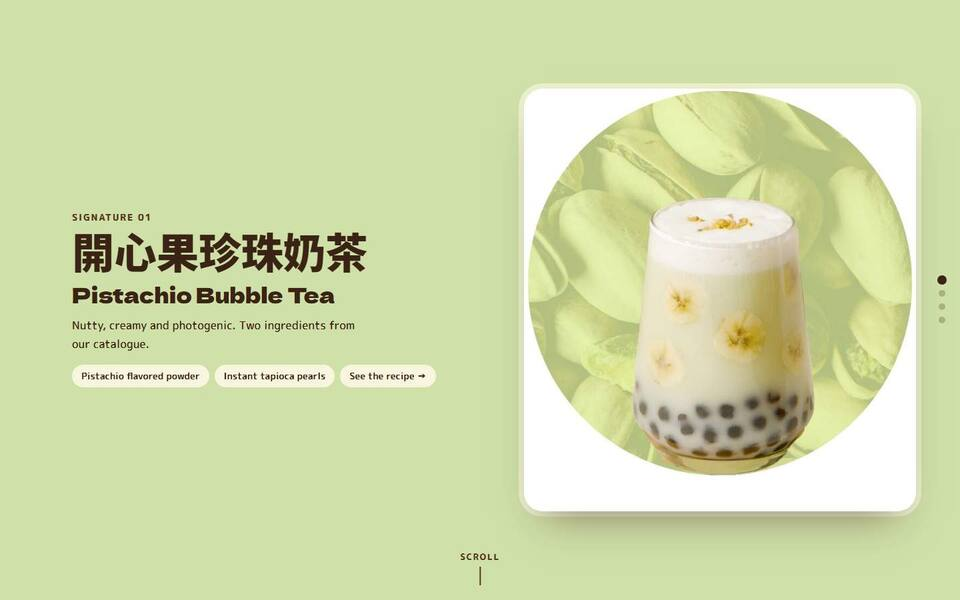
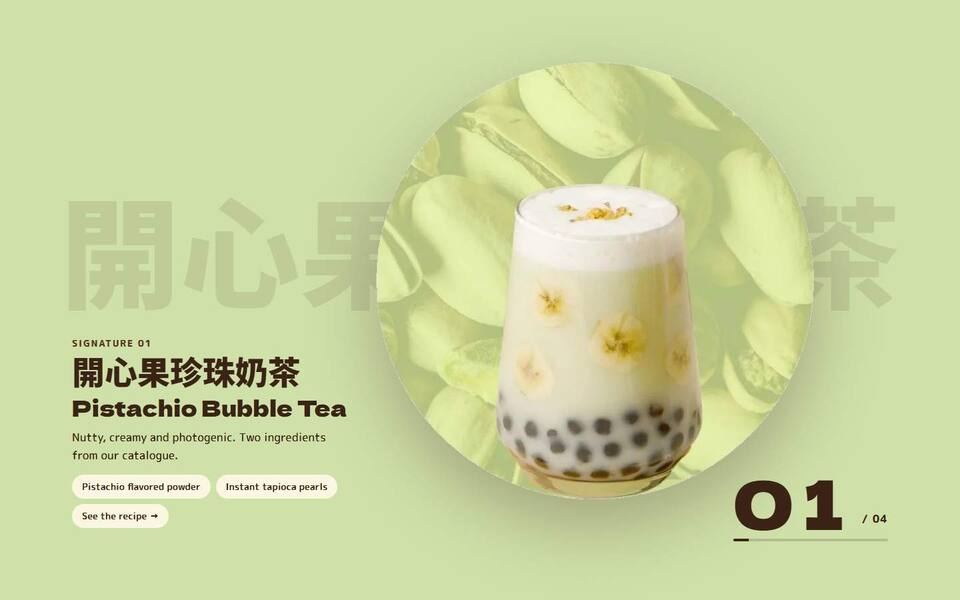
Proposal B motion: rework desktop flavor stage

diff --git a/b-menu-wall-motion.html b/b-menu-wall-motion.html
@@ -158,28 +158,35 @@ html.motion h1 .ln>span{transform:translateY(105%) rotate(7deg);transform-origin
 @keyframes tick{to{transform:translateX(-50%)}}
 
 /* pinned flavor story, like the live site's scrolling flavor slides */
-.flavors{position:relative;height:420vh;margin-top:0}
-.stage{position:sticky;top:0;height:100svh;overflow:hidden;display:grid;grid-template-columns:1fr 1fr;align-items:center;
-  background:var(--c,#cfe0a8);transition:background-color .9s cubic-bezier(.16,1,.3,1)}
-.stage .copy{padding:0 4vw 0 max(28px,calc((100vw - 1280px)/2 + 28px));position:relative;height:60vh}
-.stage .slide{position:absolute;inset:0 4vw 0 max(28px,calc((100vw - 1280px)/2 + 28px));display:flex;flex-direction:column;justify-content:center;gap:12px;
+.flavors{position:relative;height:440vh;margin-top:0}
+.stage{position:sticky;top:0;height:100svh;overflow:hidden;background:var(--c,#cfe0a8);transition:background-color .9s cubic-bezier(.16,1,.3,1)}
+.stage .big{position:absolute;left:0;right:0;top:42%;height:0;pointer-events:none}
+.stage .big span{position:absolute;left:50%;top:0;transform:translate(calc(-50% + var(--drift,0px)),-50%);white-space:nowrap;
+  font:900 min(12.5vw,24vh)/1 var(--tc);color:rgba(58,34,20,.1);opacity:0;transition:opacity .8s cubic-bezier(.16,1,.3,1)}
+.stage .big span.on{opacity:1}
+.stage .cup{position:absolute;left:62%;top:50%;width:min(50vw,84svh);height:min(50vw,84svh);transform:translate(-50%,-50%)}
+.stage .cup img{position:absolute;inset:0;width:100%;height:100%;object-fit:contain;
+  opacity:0;transform:translateY(60px) scale(.82) rotate(-8deg);transition:opacity .8s cubic-bezier(.16,1,.3,1),transform 1.1s cubic-bezier(.16,1,.3,1);
+  filter:drop-shadow(0 40px 50px rgba(58,34,20,.3))}
+.stage .cup img.on{opacity:1;transform:translateY(var(--float,0px)) rotate(var(--tilt,0deg))}
+.stage .copy{position:absolute;left:max(28px,calc((100vw - 1280px)/2 + 28px));bottom:12vh;width:min(420px,30vw);height:50vh}
+.stage .slide{position:absolute;inset:auto 0 0 0;display:flex;flex-direction:column;gap:10px;
   opacity:0;transform:translateY(40px);transition:opacity .7s cubic-bezier(.16,1,.3,1),transform .7s cubic-bezier(.16,1,.3,1);pointer-events:none}
-.stage .slide.on{opacity:1;transform:none;pointer-events:auto}
+.stage .slide.on{opacity:1;transform:none;pointer-events:auto;transition-delay:.12s}
 .stage .k{font:800 14px/1 var(--round);letter-spacing:.12em;text-transform:uppercase;color:var(--brown-2)}
-.stage .zh{font:900 clamp(36px,4.4vw,74px)/1.05 var(--tc);color:var(--brown);margin:0;white-space:nowrap}
-.stage h3{font:400 clamp(22px,2.2vw,32px)/1.1 var(--sign);color:var(--brown);margin:0}
-.stage p{margin:4px 0 0;max-width:40ch;color:#3e2615;font-size:17px}
+.stage .zh{font:900 clamp(34px,3.4vw,56px)/1.05 var(--tc);color:var(--brown);margin:0;white-space:nowrap}
+.stage h3{font:400 clamp(24px,2.3vw,36px)/1.08 var(--sign);color:var(--brown);margin:0}
+.stage p{margin:2px 0 0;color:#3e2615;font-size:17px}
 .stage .made{list-style:none;margin:6px 0 0;padding:0;display:flex;flex-wrap:wrap;gap:8px}
-.stage .made a{display:inline-block;font:700 14px/1 var(--round);text-decoration:none;background:rgba(255,248,232,.85);color:var(--brown);padding:10px 14px;border-radius:999px}
-.stage .made a:hover{background:var(--cream)}
-.stage .cup{position:relative;height:100%;display:grid;place-items:center}
-.stage .cup img{position:absolute;width:auto;height:min(78svh,44vw);max-width:44vw;aspect-ratio:720/775;object-fit:cover;background:#fff;border-radius:28px;box-shadow:0 34px 60px -30px rgba(58,34,20,.55),0 0 0 8px rgba(255,248,232,.6);
-  opacity:0;transform:scale(.86) rotate(-6deg);transition:opacity .8s cubic-bezier(.16,1,.3,1),transform 1.1s cubic-bezier(.16,1,.3,1)}
-.stage .cup img.on{opacity:1;transform:none}
-.stage .dots{position:absolute;right:22px;top:50%;transform:translateY(-50%);display:grid;gap:10px;list-style:none;margin:0;padding:0}
-.stage .dots li{width:10px;height:10px;border-radius:50%;background:rgba(58,34,20,.25);transition:background .4s,transform .4s}
-.stage .dots li.on{background:var(--brown);transform:scale(1.4)}
-.stage .hint{position:absolute;left:50%;bottom:22px;transform:translateX(-50%);font:800 13px/1 var(--round);letter-spacing:.12em;text-transform:uppercase;color:var(--brown-2);display:flex;flex-direction:column;align-items:center;gap:8px}
+.stage .made a{display:inline-block;font:700 14px/1 var(--round);text-decoration:none;background:rgba(255,248,232,.9);color:var(--brown);padding:11px 15px;border-radius:999px;transition:background .2s,transform .2s}
+.stage .made a:hover{background:var(--cream);transform:translateY(-2px)}
+.stage .count{position:absolute;right:max(28px,calc((100vw - 1280px)/2 + 28px));bottom:12vh;display:flex;align-items:flex-end;gap:12px;color:var(--brown)}
+.stage .count .n{font:400 clamp(64px,7vw,110px)/.8 var(--sign);font-variant-numeric:tabular-nums}
+.stage .count .of{font:800 16px/1 var(--round);letter-spacing:.08em;padding-bottom:6px}
+.stage .count .bar{position:absolute;left:0;right:0;bottom:-20px;height:4px;background:rgba(58,34,20,.18);border-radius:4px;overflow:hidden}
+.stage .count .bar i{position:absolute;inset:0;background:var(--brown);transform-origin:left;transform:scaleX(var(--prog,0))}
+.stage .dots{display:none}
+.stage .hint{position:absolute;left:50%;bottom:22px;transform:translateX(-50%);font:800 13px/1 var(--round);letter-spacing:.12em;text-transform:uppercase;color:var(--brown-2);display:flex;flex-direction:column;align-items:center;gap:8px;transition:opacity .4s}
 .stage .hint::after{content:"";width:2px;height:28px;background:var(--brown-2);transform-origin:top;animation:drip 1.8s cubic-bezier(.16,1,.3,1) infinite}
 @keyframes drip{0%{transform:scaleY(0)}60%{transform:scaleY(1)}100%{transform:scaleY(1);opacity:0}}
 
@@ -189,14 +196,18 @@ html.motion .menu.in li a .dots{transform:translateY(-4px) scaleX(1)}
 
 @media (max-width:860px){
   .flavors{height:380vh}
-  .stage{grid-template-columns:1fr;grid-template-rows:48svh 1fr;align-items:start}
-  .stage .cup{order:-1;height:48svh}
-  .stage .cup img{height:42svh;max-width:84vw}
+  .stage{display:grid;grid-template-rows:48svh 1fr}
+  .stage .big,.stage .count,.stage .hint{display:none}
+  .stage .cup{order:-1;position:relative;left:auto;top:auto;transform:none;width:auto;height:48svh;display:grid;place-items:center}
+  .stage .cup img{inset:auto;width:auto;height:42svh;max-width:84vw;aspect-ratio:720/775;object-fit:cover;background:#fff;border-radius:28px;filter:none;
+    box-shadow:0 34px 60px -30px rgba(58,34,20,.55),0 0 0 8px rgba(255,248,232,.6)}
+  .stage .cup img.on{transform:none}
+  .stage .copy{position:relative;left:auto;bottom:auto;width:auto;height:auto;min-height:44svh;margin:0 20px}
+  .stage .slide{inset:0 0 auto 0;padding-top:8px}
   .stage .zh{white-space:normal;font-size:clamp(30px,8.4vw,40px)}
-  .stage .copy{height:auto;min-height:44svh;padding:0 20px}
-  .stage .slide{inset:0 20px;justify-content:flex-start;padding-top:8px}
-  .stage .dots{right:12px;top:24svh}
-  .stage .hint{display:none}
+  .stage .dots{display:grid;position:absolute;right:12px;top:24svh;gap:10px;list-style:none;margin:0;padding:0}
+  .stage .dots li{width:10px;height:10px;border-radius:50%;background:rgba(58,34,20,.25);transition:background .4s,transform .4s}
+  .stage .dots li.on{background:var(--brown);transform:scale(1.4)}
 }
 @media (prefers-reduced-motion:reduce){
   .ticker .track{animation:none}
@@ -302,7 +313,7 @@ html.motion .menu.in li a .dots{transform:translateY(-4px) scaleX(1)}
   </div>
 
   <div class="ticker" aria-hidden="true"><div class="track"><ul><li class="zh" lang="zh-Hant">開心果珍珠奶茶</li><li>Powders</li><li class="zh" lang="zh-Hant">寶石芒果綠茶</li><li>Syrups</li><li class="zh" lang="zh-Hant">櫻花抹茶鮮奶</li><li>Toppings</li><li class="zh" lang="zh-Hant">薰衣草奶茶</li><li>Tea leaves</li><li>Packaging</li><li>Made in Taiwan</li></ul><ul><li class="zh" lang="zh-Hant">開心果珍珠奶茶</li><li>Powders</li><li class="zh" lang="zh-Hant">寶石芒果綠茶</li><li>Syrups</li><li class="zh" lang="zh-Hant">櫻花抹茶鮮奶</li><li>Toppings</li><li class="zh" lang="zh-Hant">薰衣草奶茶</li><li>Tea leaves</li><li>Packaging</li><li>Made in Taiwan</li></ul></div></div>
-  <section class="flavors" aria-label="Signature drinks" data-colors="#cfe0a8 #ffd23f #f7c6cf #ddd0ec"><div class="stage" style="--c:#cfe0a8"><div class="copy"><div class="slide on" data-i="0"><span class="k">Signature 01</span><div class="zh" lang="zh-Hant">開心果珍珠奶茶</div><h3>Pistachio Bubble Tea</h3><p>Nutty, creamy and photogenic. Two ingredients from our catalogue.</p><ul class="made" aria-label="Made with"><li><a href="https://store.yenchuan.co/products/powders/flavoured-milk-powders/pistachio-flavoured-powder/">Pistachio flavored powder</a></li><li><a href="https://store.yenchuan.co/products/toppings/tapioca-pearls/instant-tapioca-pearls-room-temperature/">Instant tapioca pearls</a></li><li><a href="https://store.yenchuan.co/blog/how-to-make-pistachio-bubble-tea/">See the recipe →</a></li></ul></div><div class="slide" data-i="1"><span class="k">Signature 02</span><div class="zh" lang="zh-Hant">寶石芒果綠茶</div><h3>Sapphire Mango Punch</h3><p>A bright summer seller built on sapphire jelly and mango.</p><ul class="made" aria-label="Made with"><li><a href="https://store.yenchuan.co/products/powders/jelly-powders/6x-aiyu-jelly-powder/">Sapphire (aiyu) jelly powder</a></li><li><a href="https://store.yenchuan.co/blog/happy-summer-time-for-mango-matcha-mix/">See the recipe →</a></li></ul></div><div class="slide" data-i="2"><span class="k">Signature 03</span><div class="zh" lang="zh-Hant">櫻花抹茶鮮奶</div><h3>Sakura Matcha Boba Milk</h3><p>A seasonal favorite with a cream top.</p><ul class="made" aria-label="Made with"><li><a href="https://store.yenchuan.co/products/powders/flavoured-milk-powders/sakura-milk-powder/">Sakura milk powder</a></li><li><a href="https://store.yenchuan.co/products/syrups/special-syrups/sakura-syrup/">Sakura syrup</a></li><li><a href="https://store.yenchuan.co/products/powders/cream-top-powders/original-cream-top-powder/">Original cream top</a></li><li><a href="https://store.yenchuan.co/blog/celebrate-springtime-with-sakura-drinks/">See the recipe →</a></li></ul></div><div class="slide" data-i="3"><span class="k">Signature 04</span><div class="zh" lang="zh-Hant">薰衣草奶茶</div><h3>Lavender Milk Tea</h3><p>A floral milk tea made with our lavender milk tea powder.</p><ul class="made" aria-label="Made with"><li><a href="https://store.yenchuan.co/products/powders/milk-tea-powders/lavender-milk-tea-powder/">Lavender milk tea powder</a></li></ul></div></div><div class="cup"><img class="on" src="assets/drink-pistachio.jpg" width="720" height="775" loading="eager" alt="Pistachio bubble tea with tapioca pearls" data-i="0"><img class="" src="assets/drink-mango.jpg" width="720" height="775" loading="lazy" alt="Sapphire Mango Punch in a tall glass" data-i="1"><img class="" src="assets/drink-sakura.jpg" width="720" height="775" loading="lazy" alt="Sakura matcha boba milk with cream top" data-i="2"><img class="" src="assets/drink-lavender.jpg" width="720" height="775" loading="lazy" alt="Lavender milk tea in a tall glass" data-i="3"></div><ol class="dots" aria-hidden="true"><li class="on"></li><li class=""></li><li class=""></li><li class=""></li></ol><span class="hint" aria-hidden="true">Scroll</span></div></section>
+  <section class="flavors" aria-label="Signature drinks" data-colors="#cfe0a8 #ffd23f #f7c6cf #ddd0ec"><div class="stage" style="--c:#cfe0a8"><div class="big" aria-hidden="true"><span class="on" lang="zh-Hant">開心果珍珠奶茶</span><span class="" lang="zh-Hant">寶石芒果綠茶</span><span class="" lang="zh-Hant">櫻花抹茶鮮奶</span><span class="" lang="zh-Hant">薰衣草奶茶</span></div><div class="copy"><div class="slide on" data-i="0"><span class="k">Signature 01</span><div class="zh" lang="zh-Hant">開心果珍珠奶茶</div><h3>Pistachio Bubble Tea</h3><p>Nutty, creamy and photogenic. Two ingredients from our catalogue.</p><ul class="made" aria-label="Made with"><li><a href="https://store.yenchuan.co/products/powders/flavoured-milk-powders/pistachio-flavoured-powder/">Pistachio flavored powder</a></li><li><a href="https://store.yenchuan.co/products/toppings/tapioca-pearls/instant-tapioca-pearls-room-temperature/">Instant tapioca pearls</a></li><li><a href="https://store.yenchuan.co/blog/how-to-make-pistachio-bubble-tea/">See the recipe →</a></li></ul></div><div class="slide" data-i="1"><span class="k">Signature 02</span><div class="zh" lang="zh-Hant">寶石芒果綠茶</div><h3>Sapphire Mango Punch</h3><p>A bright summer seller built on sapphire jelly and mango.</p><ul class="made" aria-label="Made with"><li><a href="https://store.yenchuan.co/products/powders/jelly-powders/6x-aiyu-jelly-powder/">Sapphire (aiyu) jelly powder</a></li><li><a href="https://store.yenchuan.co/blog/happy-summer-time-for-mango-matcha-mix/">See the recipe →</a></li></ul></div><div class="slide" data-i="2"><span class="k">Signature 03</span><div class="zh" lang="zh-Hant">櫻花抹茶鮮奶</div><h3>Sakura Matcha Boba Milk</h3><p>A seasonal favorite with a cream top.</p><ul class="made" aria-label="Made with"><li><a href="https://store.yenchuan.co/products/powders/flavoured-milk-powders/sakura-milk-powder/">Sakura milk powder</a></li><li><a href="https://store.yenchuan.co/products/syrups/special-syrups/sakura-syrup/">Sakura syrup</a></li><li><a href="https://store.yenchuan.co/products/powders/cream-top-powders/original-cream-top-powder/">Original cream top</a></li><li><a href="https://store.yenchuan.co/blog/celebrate-springtime-with-sakura-drinks/">See the recipe →</a></li></ul></div><div class="slide" data-i="3"><span class="k">Signature 04</span><div class="zh" lang="zh-Hant">薰衣草奶茶</div><h3>Lavender Milk Tea</h3><p>A floral milk tea made with our lavender milk tea powder.</p><ul class="made" aria-label="Made with"><li><a href="https://store.yenchuan.co/products/powders/milk-tea-powders/lavender-milk-tea-powder/">Lavender milk tea powder</a></li></ul></div></div><div class="cup"><img class="on" src="assets/cut-pistachio.webp" width="720" height="775" loading="eager" alt="Pistachio bubble tea with tapioca pearls" data-i="0"><img class="" src="assets/cut-mango.webp" width="720" height="775" loading="lazy" alt="Sapphire Mango Punch in a tall glass" data-i="1"><img class="" src="assets/cut-sakura.webp" width="720" height="775" loading="lazy" alt="Sakura matcha boba milk with cream top" data-i="2"><img class="" src="assets/cut-lavender.webp" width="720" height="775" loading="lazy" alt="Lavender milk tea in a tall glass" data-i="3"></div><ol class="dots" aria-hidden="true"><li class="on"></li><li class=""></li><li class=""></li><li class=""></li></ol><div class="count" aria-hidden="true"><span class="n">01</span><span class="of">/ 04</span><span class="bar"><i></i></span></div><span class="hint" aria-hidden="true">Scroll</span></div></section>
 
   <section id="stock" class="wrap" aria-labelledby="stockT">
     <h2 id="stockT" class="rv">Stock your whole menu from one supplier</h2>
@@ -391,17 +402,25 @@ html.motion .menu.in li a .dots{transform:translateY(-4px) scaleX(1)}
 
   /* pinned flavor story */
   var sec=document.querySelector('.flavors'); if(!sec) return;
-  var stage=sec.querySelector('.stage'),slides=sec.querySelectorAll('.slide'),imgs=sec.querySelectorAll('.cup img'),dots=sec.querySelectorAll('.dots li');
+  var stage=sec.querySelector('.stage'),slides=sec.querySelectorAll('.slide'),imgs=sec.querySelectorAll('.cup img'),dots=sec.querySelectorAll('.dots li'),bigs=sec.querySelectorAll('.big span'),num=sec.querySelector('.count .n'),hint=sec.querySelector('.hint');
+  var still=matchMedia('(prefers-reduced-motion: reduce)').matches;
   var colors=sec.dataset.colors.split(' '),n=slides.length,cur=0,ticking=false;
   function set(i){ if(i===cur) return; cur=i;
     stage.style.setProperty('--c',colors[i]);
-    [slides,imgs,dots].forEach(function(list){list.forEach(function(el,j){el.classList.toggle('on',j===i)})});
+    if(num) num.textContent=('0'+(i+1)).slice(-2);
+    [slides,imgs,dots,bigs].forEach(function(list){list.forEach(function(el,j){el.classList.toggle('on',j===i)})});
     slides.forEach(function(s,j){ if(j===i) s.removeAttribute('inert'); else s.setAttribute('inert','') });
   }
   slides.forEach(function(s,j){ if(j) s.setAttribute('inert','') });
   function update(){ ticking=false;
     var r=sec.getBoundingClientRect(),span=sec.offsetHeight-innerHeight;
-    var p=Math.min(1,Math.max(0,-r.top/span)); set(Math.min(n-1,Math.floor(p*n)));
+    var p=Math.min(1,Math.max(0,-r.top/span)),i=Math.min(n-1,Math.floor(p*n)); set(i);
+    stage.style.setProperty('--prog',p.toFixed(3));
+    if(hint) hint.style.opacity=p>0.03?0:1;
+    if(!still){ var lp=p*n-i;
+      stage.style.setProperty('--float',(-36*lp+18).toFixed(1)+'px');
+      stage.style.setProperty('--tilt',(4*lp-2).toFixed(2)+'deg');
+      stage.style.setProperty('--drift',(-60*lp+30).toFixed(1)+'px'); }
   }
   addEventListener('scroll',function(){ if(!ticking){ticking=true;requestAnimationFrame(update)} },{passive:true});
   addEventListener('resize',update); update();
